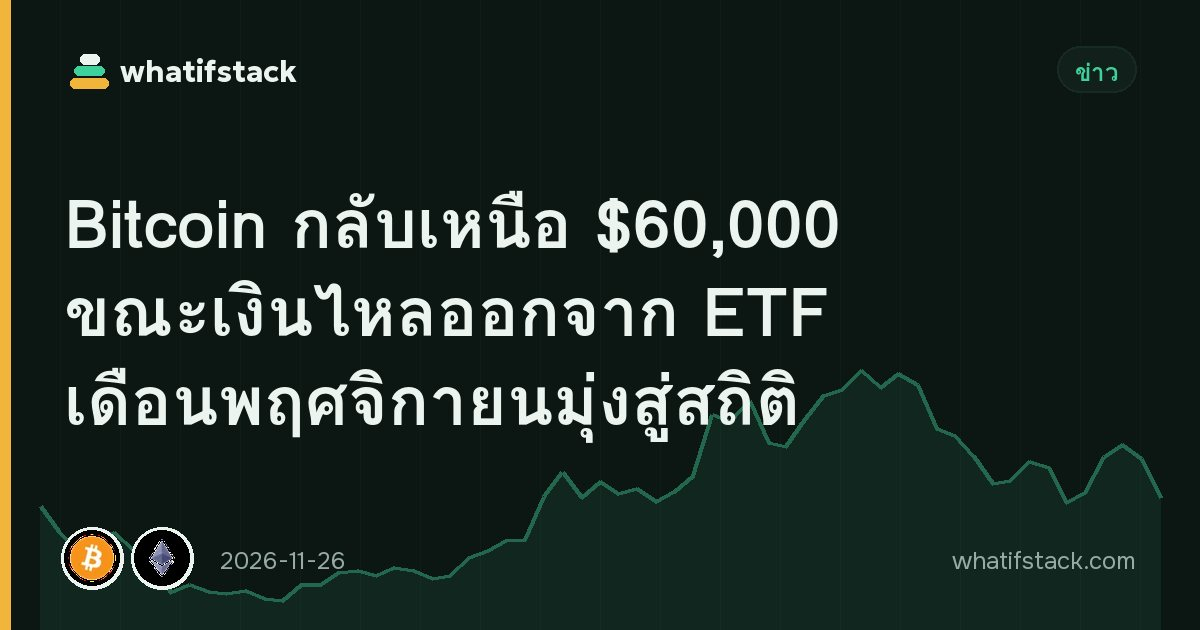
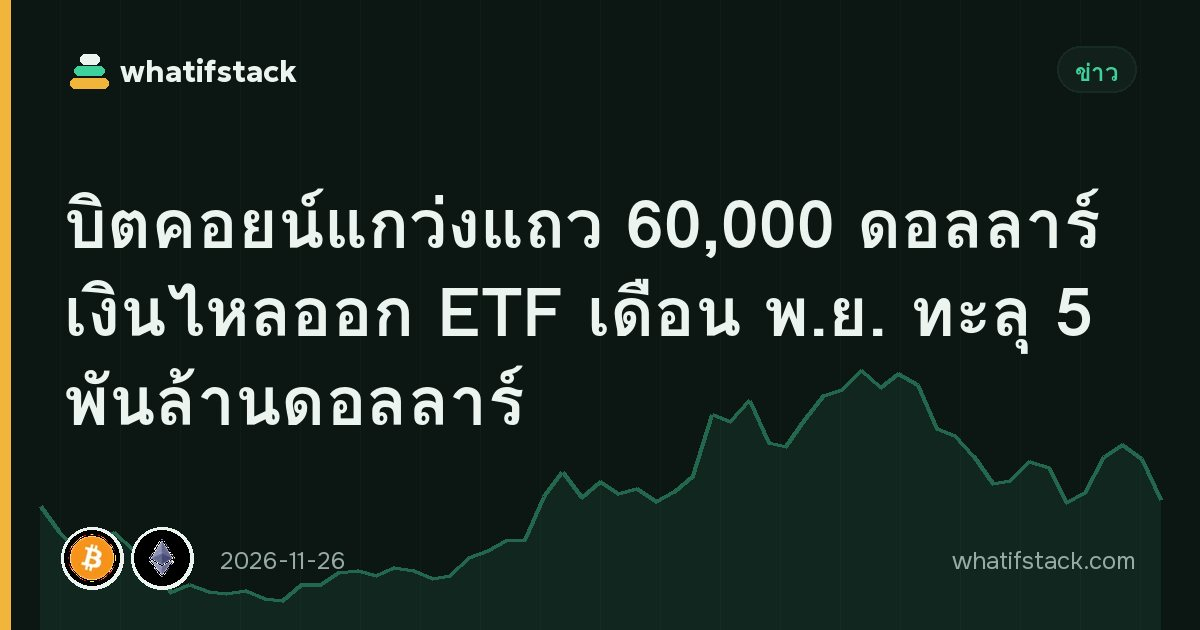
News update: bitcoin-back-above-60000-etf-outflows-november-record
Claude-Session: https://claude.ai/code/session_01Nmn9VRKyYFWQJN1iZMEbvH

Changed region(s): [[0.0617, 0.4222, 0.925, 0.573], [0.0308, 0.3016, 0.925, 0.4222], [0.0308, 0.573, 0.6783, 0.7238]]

diff --git a/content/news/th/bitcoin-back-above-60000-etf-outflows-november-record.md b/content/news/th/bitcoin-back-above-60000-etf-outflows-november-record.md
@@ -1,11 +1,13 @@
 ---
-title: Bitcoin กลับเหนือ $60,000 ขณะเงินไหลออกจาก ETF เดือนพฤศจิกายนมุ่งสู่สถิติ
-description: Bitcoin ขึ้นราว 3% ใกล้ $60,850 เมื่อ 26 พ.ย. หลังหลุด $58,000 ขณะที่ ETF bitcoin spot ในสหรัฐฯ ยังมีเงินไหลออกต่อเนื่องในเดือนที่ทำสถิติ
+title: บิตคอยน์แกว่งแถว 60,000 ดอลลาร์ เงินไหลออก ETF เดือน พ.ย. ทะลุ 5 พันล้านดอลลาร์
+description: บิตคอยน์หลุด 60,000 ดอลลาร์อีกครั้งเมื่อ 28 พ.ย. หลังขึ้นไปแตะ 62,100 ดอลลาร์ ออปชัน 7 พันล้านดอลลาร์หมดอายุ และเงินไหลออก ETF เดือน พ.ย. ทะลุ 5 พันล้านดอลลาร์
 date: 2026-11-26 06:50
-updated: 2026-11-27 13:05
+updated: 2026-11-28 06:30
 tags: bitcoin, etf
 assets: btc, eth
 ---
+**อัปเดต 28 พฤศจิกายน 06:30 UTC:** บิตคอยน์หลุด 60,000 ดอลลาร์อีกครั้งในเช้ามืดวันเสาร์ และซื้อขายราว 59,700 ดอลลาร์เมื่อเวลา 06:07 UTC ลดลงราว 3% ใน 24 ชั่วโมง หลังแกว่งตัวจากจุดสูงสุดวันศุกร์ราว 62,100 ดอลลาร์ลงไปต่ำสุดราว 58,700 ดอลลาร์ (Investing.com) เมื่อวันศุกร์ ออปชันบิตคอยน์มูลค่าราว 7 พันล้านดอลลาร์หมดอายุบน Deribit และสถานะคริปโตแบบเลเวอเรจราว 478 ล้านดอลลาร์ถูกล้างพอร์ต อีเธอร์ลดลงราว 4.5% มาอยู่ราว 1,657 ดอลลาร์ ส่วนโทเคน WLFI ที่เชื่อมโยงกับทรัมป์ดิ่งราว 40% หลังกระเป๋าสำรองขาย ETH ขาดทุน ([ข่าวของเรา]({lang}/news/why-is-wlfi-crashing-november-2026/)) เงินไหลออกจาก ETF บิตคอยน์สปอตของสหรัฐฯ ในเดือนพฤศจิกายนทะลุ 5 พันล้านดอลลาร์ ในอีกด้าน ข้อมูล CryptoQuant ชี้ว่ากระเป๋าที่ถือ 1,000–10,000 BTC ซื้อเพิ่มราว 121,000 BTC ระหว่าง 30 ก.ย.–21 พ.ย. ขณะที่ราคาลดลงเกือบ 30%
+
 **อัปเดต 27 พฤศจิกายน 13:05 UTC:** Bitcoin ยังขึ้นต่อและซื้อขายใกล้ $61,700 ในวันศุกร์ สูงกว่าจุดต่ำสุดในรอบสองปีเมื่อวันพุธที่ราว $57,300 ประมาณ 8% และเป็นระดับสูงสุดนับตั้งแต่วันจันทร์ โดยกำลังจะปิดสัปดาห์เป็นบวกครั้งแรกในรอบแปดสัปดาห์ (Analytics Insight, Coinspeaker) ทั้งเดือนพฤศจิกายนราคายังลดลงราว 20% จากประมาณ $77,600 เมื่อ 1 พฤศจิกายน ส่วน Ether เพิ่มขึ้นราว 2.3% ใกล้ $1,734 การดีดตัวครั้งนี้เกิดขึ้นพร้อมกับการฟื้นตัวในวงกว้างของหุ้น AI และชิป ท่ามกลางการซื้อขายช่วงวันหยุดที่บางเบา นอกจากนี้ Binance ระบุเมื่อวันพฤหัสบดีว่าได้ยกเลิกข้อจำกัดการถอนที่ใช้หลังเหตุแฮ็ก $6.3 พันล้านเมื่อเดือนที่แล้วทั้งหมดแล้ว เงินเฟ้อสหรัฐฯ ที่ยังสูงต่อเนื่องและโอกาสที่ Fed จะขึ้นดอกเบี้ยในการประชุม 8–9 ธันวาคมยังเป็นแรงกดดันหลัก และเทรดเดอร์จับตาแนวต้านใกล้ $64,600
 
 Bitcoin กลับขึ้นเหนือ $60,000 ในเช้าวันพฤหัสบดีที่ 26 พฤศจิกายน โดยเพิ่มขึ้นราว 3% ใน 24 ชั่วโมง มาอยู่ใกล้ $60,850 เมื่อเวลา 05:40 UTC หนึ่งวันหลังจากที่ร่วงลงต่ำกว่า $58,000 ชั่วครู่ การฟื้นตัวเกิดขึ้นขณะที่วอลล์สตรีทเรียกคืนการขาดทุนช่วงเช้าวันพุธของหุ้นเทคโนโลยีได้เกือบทั้งหมด แต่เงินยังคงไหลออกจาก ETF bitcoin spot ในสหรัฐฯ
@@ -23,6 +25,7 @@ Bitcoin กลับขึ้นเหนือ $60,000 ในเช้าวั
 
 ## แหล่งที่มา
 
+- [Investing.com — Bitcoin price today falls below $60k as whales buy dip, ETF outflows mount](https://www.investing.com/news/cryptocurrency-news/bitcoin-price-today-falls-below-60k-as-whales-buy-dip-etf-outflows-mount-5054180)
 - [Analytics Insight — Bitcoin ฟื้นเหนือ USD 61,400 มุ่งสู่สัปดาห์บวกครั้งแรกในรอบแปดสัปดาห์](https://www.analyticsinsight.net/news/bitcoin-recovers-above-usd-61400-eyes-first-weekly-gain-in-eight-weeks-as-crypto-markets-rebound)
 - [Coinspeaker via Yahoo Finance — ข่าว bitcoin วันนี้: BTC ดีดตัว 8%](https://finance.yahoo.com/markets/crypto/articles/bitcoin-news-today-btc-rebounds-104410814.html)
 - [crypto.news — ราคา bitcoin กลับมาที่ $60K แต่ถึงจุดต่ำสุดจริงหรือยัง?](https://crypto.news/bitcoin-price-prediction-btc-recovery-etf-outflows/)

diff --git a/content/news/hi/bitcoin-back-above-60000-etf-outflows-november-record.md b/content/news/hi/bitcoin-back-above-60000-etf-outflows-november-record.md
@@ -1,11 +1,13 @@
 ---
-title: Bitcoin फिर $60,000 के ऊपर, नवंबर में ETF से निकासी रिकॉर्ड की ओर
-description: 26 नवंबर को $58,000 से नीचे फिसलने के बाद Bitcoin करीब 3% चढ़कर लगभग $60,850 पर पहुंचा, जबकि अमेरिकी स्पॉट bitcoin ETF से रिकॉर्ड महीने की निकासी जारी रही।
+title: बिटकॉइन 60,000 डॉलर के आसपास झूल रहा, नवंबर में ETF से निकासी 5 अरब डॉलर पार
+description: 28 नवंबर को बिटकॉइन 62,100 डॉलर छूने के बाद फिर 60,000 डॉलर से नीचे आया; 7 अरब डॉलर के ऑप्शन एक्सपायर हुए और नवंबर में ETF निकासी 5 अरब डॉलर पार गई।
 date: 2026-11-26 06:50
-updated: 2026-11-27 13:05
+updated: 2026-11-28 06:30
 tags: bitcoin, etf
 assets: btc, eth
 ---
+**अपडेट 28 नवंबर, 06:30 UTC:** शनिवार सुबह बिटकॉइन फिर 60,000 डॉलर से नीचे फिसल गया और 06:07 UTC पर करीब 59,700 डॉलर पर था, 24 घंटे में लगभग 3% नीचे; शुक्रवार को यह करीब 62,100 डॉलर के ऊपरी स्तर से करीब 58,700 डॉलर के निचले स्तर तक झूला (Investing.com)। शुक्रवार को Deribit पर करीब 7 अरब डॉलर के बिटकॉइन ऑप्शन एक्सपायर हुए और क्रिप्टो बाज़ार में करीब 47.8 करोड़ डॉलर की लीवरेज पोज़िशन लिक्विडेट हुईं। ईथर करीब 4.5% गिरकर लगभग 1,657 डॉलर पर आया, और ट्रंप से जुड़ा WLFI टोकन एक रिज़र्व वॉलेट के घाटे में ETH बेचने के बाद करीब 40% टूट गया ([हमारी खबर]({lang}/news/why-is-wlfi-crashing-november-2026/))। नवंबर में अमेरिकी स्पॉट बिटकॉइन ETF से निकासी 5 अरब डॉलर पार कर गई। दूसरी ओर, CryptoQuant के आंकड़ों के मुताबिक 1,000–10,000 BTC वाले वॉलेट्स ने 30 सितंबर से 21 नवंबर के बीच करीब 1,21,000 BTC खरीदे, जबकि भाव लगभग 30% गिरा।
+
 **अपडेट 27 नवंबर, 13:05 UTC:** Bitcoin की तेजी जारी रही और शुक्रवार को यह करीब $61,700 पर ट्रेड हुआ, जो बुधवार के लगभग $57,300 के दो साल के निचले स्तर से करीब 8% ऊपर और सोमवार के बाद का सबसे ऊंचा स्तर है; यह आठ हफ्तों में अपनी पहली साप्ताहिक बढ़त की ओर है (Analytics Insight, Coinspeaker)। नवंबर में यह अब भी करीब 20% नीचे है, 1 नवंबर के लगभग $77,600 से। Ether करीब 2.3% बढ़कर लगभग $1,734 पर पहुंचा। यह उछाल AI और चिप शेयरों में व्यापक राहत रैली और छुट्टियों के कम कारोबार के साथ आया; Binance ने गुरुवार को यह भी कहा कि पिछले महीने के $6.3 अरब के हैक के बाद लगाई गई निकासी सीमाएं पूरी तरह हटा दी गई हैं। अमेरिका में लगातार ऊंची महंगाई और 8–9 दिसंबर की बैठक में Fed की संभावित ब्याज दर बढ़ोतरी अब भी मुख्य बाधाएं हैं, और ट्रेडर्स करीब $64,600 के रेजिस्टेंस पर नजर रख रहे हैं।
 
 गुरुवार, 26 नवंबर की सुबह Bitcoin फिर $60,000 के ऊपर लौट आया। 05:40 UTC पर यह 24 घंटे में करीब 3% बढ़कर लगभग $60,850 पर था, जबकि एक दिन पहले यह कुछ समय के लिए $58,000 से नीचे चला गया था। यह उछाल तब आया जब वॉल स्ट्रीट ने बुधवार सुबह टेक शेयरों में हुई ज्यादातर गिरावट की भरपाई कर ली, लेकिन अमेरिकी स्पॉट bitcoin ETF से पैसा निकलता रहा।
@@ -23,6 +25,7 @@ crypto.news के हवाले से विश्लेषक $61,500–62,
 
 ## स्रोत
 
+- [Investing.com — Bitcoin price today falls below $60k as whales buy dip, ETF outflows mount](https://www.investing.com/news/cryptocurrency-news/bitcoin-price-today-falls-below-60k-as-whales-buy-dip-etf-outflows-mount-5054180)
 - [Analytics Insight — Bitcoin USD 61,400 के ऊपर लौटा, आठ हफ्तों में पहली साप्ताहिक बढ़त की ओर](https://www.analyticsinsight.net/news/bitcoin-recovers-above-usd-61400-eyes-first-weekly-gain-in-eight-weeks-as-crypto-markets-rebound)
 - [Coinspeaker via Yahoo Finance — आज की bitcoin खबर: BTC 8% उछला](https://finance.yahoo.com/markets/crypto/articles/bitcoin-news-today-btc-rebounds-104410814.html)
 - [crypto.news — Bitcoin की कीमत फिर $60K पर, लेकिन क्या सच में तल बन गया है?](https://crypto.news/bitcoin-price-prediction-btc-recovery-etf-outflows/)

diff --git a/content/news/ar/bitcoin-back-above-60000-etf-outflows-november-record.md b/content/news/ar/bitcoin-back-above-60000-etf-outflows-november-record.md
@@ -1,11 +1,13 @@
 ---
-title: Bitcoin يعود فوق 60 ألف دولار مع توجه تدفقات الخروج من صناديق ETF لرقم قياسي في نوفمبر
-description: ارتفع Bitcoin نحو 3% إلى قرابة 60,850 دولارًا في 26 نوفمبر بعد هبوطه دون 58 ألفًا، فيما واصلت صناديق bitcoin الأمريكية الفورية شهرًا قياسيًا من التدفقات.
+title: Bitcoin يتأرجح حول 60 ألف دولار وتدفقات الخروج من صناديق ETF في نوفمبر تتجاوز 5 مليارات
+description: عاد Bitcoin دون 60 ألف دولار في 28 نوفمبر بعد بلوغه 62,100 دولار، مع انتهاء خيارات بقيمة 7 مليارات وتجاوز تدفقات الخروج من صناديق ETF في نوفمبر 5 مليارات دولار.
 date: 2026-11-26 06:50
-updated: 2026-11-27 13:05
+updated: 2026-11-28 06:30
 tags: bitcoin, etf
 assets: btc, eth
 ---
+**تحديث 28 نوفمبر، 06:30 UTC:** عاد Bitcoin دون 60 ألف دولار فجر السبت وتداول قرب 59,700 دولار عند 06:07 UTC، منخفضًا نحو 3% خلال 24 ساعة، بعد تأرجحه بين قمة الجمعة قرب 62,100 دولار وقاع قرب 58,700 دولار (Investing.com). وانتهت يوم الجمعة على Deribit خيارات بيتكوين بقيمة تقارب 7 مليارات دولار، وجرت تصفية مراكز مشفرة بالرافعة بنحو 478 مليون دولار. وتراجع الإيثر نحو 4.5% إلى قرابة 1,657 دولارًا، فيما انهار رمز WLFI المرتبط بترامب بنحو 40% بعد بيع محفظة احتياطية ETH بخسارة ([خبرنا]({lang}/news/why-is-wlfi-crashing-november-2026/)). وتجاوزت التدفقات الخارجة من صناديق البيتكوين الفورية الأمريكية في نوفمبر 5 مليارات دولار. في المقابل، تُظهر بيانات CryptoQuant أن المحافظ التي تحمل 1,000–10,000 BTC اشترت نحو 121 ألف BTC بين 30 سبتمبر و21 نوفمبر بينما هبط السعر قرابة 30%.
+
 **تحديث 27 نوفمبر، 13:05 UTC:** واصل Bitcoin ارتفاعه وجرى تداوله قرب 61,700 دولار يوم الجمعة، أي أعلى بنحو 8% من أدنى مستوى في عامين سجّله يوم الأربعاء قرب 57,300 دولار، وهو أعلى مستوى له منذ يوم الاثنين؛ ويتجه لتحقيق أول مكسب أسبوعي منذ ثمانية أسابيع (Analytics Insight وCoinspeaker). لكنه لا يزال منخفضًا بنحو 20% في نوفمبر، من قرابة 77,600 دولار في 1 نوفمبر. وارتفع ether بنحو 2.3% إلى قرابة 1,734 دولارًا. وجاء الارتداد مع موجة انتعاش أوسع في أسهم الذكاء الاصطناعي والرقائق وتداولات عطلة هادئة؛ كما أعلنت Binance يوم الخميس أنها رفعت بالكامل قيود السحب التي فرضتها بعد اختراق بقيمة 6.3 مليار دولار الشهر الماضي. ويظل التضخم الأمريكي المستمر واحتمال رفع الفيدرالي للفائدة في اجتماع 8–9 ديسمبر أبرز العوائق، فيما يراقب المتداولون مستوى المقاومة قرب 64,600 دولار.
 
 عاد Bitcoin فوق مستوى 60 ألف دولار في وقت مبكر من يوم الخميس 26 نوفمبر، مرتفعًا نحو 3% خلال 24 ساعة إلى قرابة 60,850 دولارًا عند الساعة 05:40 بتوقيت UTC، بعد يوم من هبوطه لفترة وجيزة دون 58 ألف دولار. وجاء الارتداد مع تعويض وول ستريت معظم خسائر أسهم التكنولوجيا في بداية تعاملات الأربعاء، لكن الأموال واصلت الخروج من صناديق bitcoin الفورية المتداولة في الولايات المتحدة.
@@ -23,6 +25,7 @@ assets: btc, eth
 
 ## المصادر
 
+- [Investing.com — Bitcoin price today falls below $60k as whales buy dip, ETF outflows mount](https://www.investing.com/news/cryptocurrency-news/bitcoin-price-today-falls-below-60k-as-whales-buy-dip-etf-outflows-mount-5054180)
 - [Analytics Insight — Bitcoin يتعافى فوق 61,400 دولار ويتجه لأول مكسب أسبوعي منذ ثمانية أسابيع](https://www.analyticsinsight.net/news/bitcoin-recovers-above-usd-61400-eyes-first-weekly-gain-in-eight-weeks-as-crypto-markets-rebound)
 - [Coinspeaker via Yahoo Finance — أخبار bitcoin اليوم: BTC يرتد 8%](https://finance.yahoo.com/markets/crypto/articles/bitcoin-news-today-btc-rebounds-104410814.html)
 - [crypto.news — سعر bitcoin يستعيد 60 ألف دولار، لكن هل بلغ القاع حقًا؟](https://crypto.news/bitcoin-price-prediction-btc-recovery-etf-outflows/)

diff --git a/content/news/uk/bitcoin-back-above-60000-etf-outflows-november-record.md b/content/news/uk/bitcoin-back-above-60000-etf-outflows-november-record.md
@@ -1,11 +1,13 @@
 ---
-title: Біткоїн повернувся вище $60 000, а відтік з ETF у листопаді йде на рекорд
-description: 26 листопада біткоїн зріс приблизно на 3% до ~$60 850 після падіння нижче $58 000, а спотові біткоїн-ETF у США продовжили рекордний місяць відтоків.
+title: Біткоїн коливається біля $60 000, а відтік з ETF у листопаді перевищив $5 млрд
+description: 28 листопада біткоїн знову опустився нижче $60 000 після злету до $62 100: пройшла експірація опціонів на $7 млрд, а відтік з ETF за листопад перевищив $5 млрд.
 date: 2026-11-26 06:50
-updated: 2026-11-27 13:05
+updated: 2026-11-28 06:30
 tags: bitcoin, etf
 assets: btc, eth
 ---
+**Оновлення 28 листопада, 06:30 UTC:** у суботу зранку біткоїн знову опустився нижче $60 000 і о 06:07 UTC торгувався біля $59 700 — приблизно −3% за добу — після коливань від п'ятничного максимуму ~$62 100 до мінімуму ~$58 700 (Investing.com). У п'ятницю на Deribit експірувалися біткоїн-опціони приблизно на $7 млрд, ліквідації кредитних позицій на крипторинку сягнули ~$478 млн. Ефір подешевшав ~на 4,5% до ~$1 657, а пов'язаний із Трампом токен WLFI обвалився ~на 40% після продажу ETH із резервного гаманця ([наша новина]({lang}/news/why-is-wlfi-crashing-november-2026/)). Відтік зі спотових біткоїн-ETF у США за листопад перевищив $5 млрд. Водночас, за даними CryptoQuant, гаманці з 1 000–10 000 BTC з 30 вересня по 21 листопада докупили ~121 000 BTC, поки ціна падала майже на 30%.
+
 **Оновлення 27 листопада, 13:05 UTC:** біткоїн продовжив зростання й у п'ятницю торгувався біля $61 700 — приблизно на 8% вище за середовий дворічний мінімум близько $57 300 і найвище з понеділка; він іде до першого тижневого зростання за вісім тижнів (Analytics Insight, Coinspeaker). За листопад біткоїн усе ще втратив близько 20% — з приблизно $77 600 на 1 листопада. Ether додав близько 2,3%, до ~$1 734. Відскок збігся з ширшим відновленням акцій ШІ та чипмейкерів і тонкою святковою торгівлею; крім того, у четвер Binance повідомила, що повністю зняла ліміти на виведення, запроваджені після злому на $6,3 млрд минулого місяця. Головними ризиками залишаються стійка інфляція в США та ймовірне підвищення ставки ФРС на засіданні 8–9 грудня, а трейдери стежать за опором біля $64 600.
 
 У четвер, 26 листопада, біткоїн знову піднявся вище $60 000: за 24 години він подорожчав приблизно на 3% і о 05:40 UTC торгувався біля $60 850 — через день після того, як ненадовго опускався нижче $58 000. Відскок збігся з тим, що Волл-стріт відіграла більшу частину ранніх втрат техакцій у середу, але гроші й далі виходили зі спотових біткоїн-ETF у США.
@@ -23,6 +25,7 @@ assets: btc, eth
 
 ## Джерела
 
+- [Investing.com — Bitcoin price today falls below $60k as whales buy dip, ETF outflows mount](https://www.investing.com/news/cryptocurrency-news/bitcoin-price-today-falls-below-60k-as-whales-buy-dip-etf-outflows-mount-5054180)
 - [Analytics Insight — Bitcoin recovers above USD 61,400, eyes first weekly gain in eight weeks](https://www.analyticsinsight.net/news/bitcoin-recovers-above-usd-61400-eyes-first-weekly-gain-in-eight-weeks-as-crypto-markets-rebound)
 - [Coinspeaker via Yahoo Finance — Bitcoin news today: BTC rebounds 8%](https://finance.yahoo.com/markets/crypto/articles/bitcoin-news-today-btc-rebounds-104410814.html)
 - [crypto.news — ціна біткоїна повернулася вище $60 тис., але чи справді дно пройдене?](https://crypto.news/bitcoin-price-prediction-btc-recovery-etf-outflows/)

diff --git a/content/news/ru/bitcoin-back-above-60000-etf-outflows-november-record.md b/content/news/ru/bitcoin-back-above-60000-etf-outflows-november-record.md
@@ -1,11 +1,13 @@
 ---
-title: Биткоин вернулся выше $60 000, а отток из ETF в ноябре идёт на рекорд
-description: 26 ноября биткоин вырос примерно на 3% до ~$60 850 после падения ниже $58 000, а спотовые биткоин-ETF в США продолжили рекордный месяц оттоков.
+title: Биткоин колеблется у $60 000, а отток из ETF в ноябре превысил $5 млрд
+description: 28 ноября биткоин снова опустился ниже $60 000 после взлёта до $62 100: прошла экспирация опционов на $7 млрд, а отток из ETF за ноябрь превысил $5 млрд.
 date: 2026-11-26 06:50
-updated: 2026-11-27 13:05
+updated: 2026-11-28 06:30
 tags: bitcoin, etf
 assets: btc, eth
 ---
+**Обновление 28 ноября, 06:30 UTC:** в субботу утром биткоин снова опустился ниже $60 000 и в 06:07 UTC торговался около $59 700 — примерно −3% за сутки — после колебаний от пятничного максимума ~$62 100 до минимума ~$58 700 (Investing.com). В пятницу на Deribit экспирировались биткоин-опционы примерно на $7 млрд, ликвидации кредитных позиций на криптовалютном рынке достигли ~$478 млн. Эфир подешевел ~на 4,5% до ~$1 657, а связанный с Трампом токен WLFI рухнул ~на 40% после продажи ETH из резервного кошелька ([наша новость]({lang}/news/why-is-wlfi-crashing-november-2026/)). Отток из спотовых биткоин-ETF в США за ноябрь превысил $5 млрд. При этом, по данным CryptoQuant, кошельки с 1 000–10 000 BTC с 30 сентября по 21 ноября докупили ~121 000 BTC, пока цена падала почти на 30%.
+
 **Обновление 27 ноября, 13:05 UTC:** биткоин продолжил рост и в пятницу торговался около $61 700 — примерно на 8% выше среднего двухлетнего минимума около $57 300 и максимально с понедельника; он идет к первому недельному росту за восемь недель (Analytics Insight, Coinspeaker). За ноябрь биткоин всё еще потерял около 20% — с примерно $77 600 на 1 ноября. Ether прибавил около 2,3%, до ~$1 734. Отскок совпал с более широким восстановлением акций ИИ и производителей чипов и тонкой праздничной торговлей; кроме того, в четверг Binance сообщила, что полностью сняла лимиты на вывод, введенные после взлома на $6,3 млрд в прошлом месяце. Главными рисками остаются устойчивая инфляция в США и вероятное повышение ставки ФРС на заседании 8–9 декабря, а трейдеры следят за сопротивлением около $64 600.
 
 В четверг, 26 ноября, биткоин снова поднялся выше $60 000: за 24 часа он подорожал примерно на 3% и в 05:40 UTC торговался около $60 850 — через день после того, как ненадолго опускался ниже $58 000. Отскок совпал с тем, что Уолл-стрит отыграла большую часть утренних потерь техакций в среду, но деньги продолжали уходить из спотовых биткоин-ETF в США.
@@ -23,6 +25,7 @@ assets: btc, eth
 
 ## Источники
 
+- [Investing.com — Bitcoin price today falls below $60k as whales buy dip, ETF outflows mount](https://www.investing.com/news/cryptocurrency-news/bitcoin-price-today-falls-below-60k-as-whales-buy-dip-etf-outflows-mount-5054180)
 - [Analytics Insight — Bitcoin recovers above USD 61,400, eyes first weekly gain in eight weeks](https://www.analyticsinsight.net/news/bitcoin-recovers-above-usd-61400-eyes-first-weekly-gain-in-eight-weeks-as-crypto-markets-rebound)
 - [Coinspeaker via Yahoo Finance — Bitcoin news today: BTC rebounds 8%](https://finance.yahoo.com/markets/crypto/articles/bitcoin-news-today-btc-rebounds-104410814.html)
 - [crypto.news — цена биткоина вернулась выше $60 тыс., но действительно ли дно пройдено?](https://crypto.news/bitcoin-price-prediction-btc-recovery-etf-outflows/)

diff --git a/content/news/vi/bitcoin-back-above-60000-etf-outflows-november-record.md b/content/news/vi/bitcoin-back-above-60000-etf-outflows-november-record.md
@@ -1,11 +1,13 @@
 ---
-title: Bitcoin trở lại trên 60.000 USD khi dòng tiền rút khỏi ETF tháng 11 hướng tới kỷ lục
-description: Bitcoin tăng khoảng 3% lên gần 60.850 USD ngày 26/11 sau khi rơi dưới 58.000 USD, trong khi các ETF bitcoin giao ngay tại Mỹ kéo dài tháng rút vốn kỷ lục.
+title: Bitcoin dao động quanh 60.000 USD, dòng tiền rút khỏi ETF tháng 11 vượt 5 tỷ USD
+description: Bitcoin lại xuống dưới 60.000 USD ngày 28/11 sau khi chạm 62.100 USD; 7 tỷ USD quyền chọn đáo hạn và dòng tiền rút khỏi ETF trong tháng 11 vượt 5 tỷ USD.
 date: 2026-11-26 06:50
-updated: 2026-11-27 13:05
+updated: 2026-11-28 06:30
 tags: bitcoin, etf
 assets: btc, eth
 ---
+**Cập nhật 28/11, 06:30 UTC:** bitcoin lại rơi xuống dưới 60.000 USD vào rạng sáng thứ Bảy, giao dịch quanh 59.700 USD lúc 06:07 UTC, giảm khoảng 3% trong 24 giờ, sau khi dao động từ đỉnh thứ Sáu khoảng 62.100 USD xuống đáy khoảng 58.700 USD (Investing.com). Hôm thứ Sáu, khoảng 7 tỷ USD quyền chọn bitcoin đáo hạn trên Deribit và khoảng 478 triệu USD vị thế crypto đòn bẩy bị thanh lý. Ether giảm khoảng 4,5% về gần 1.657 USD, còn token WLFI liên quan đến Trump lao dốc khoảng 40% sau khi một ví dự trữ bán lỗ ETH ([bài của chúng tôi]({lang}/news/why-is-wlfi-crashing-november-2026/)). Dòng tiền rút khỏi các ETF bitcoin giao ngay của Mỹ trong tháng 11 đã vượt 5 tỷ USD. Ngược lại, dữ liệu CryptoQuant cho thấy các ví nắm 1.000–10.000 BTC đã mua khoảng 121.000 BTC từ 30/9 đến 21/11, trong khi giá giảm gần 30%.
+
 **Cập nhật 27/11, 13:05 UTC:** Bitcoin tiếp tục tăng và giao dịch quanh 61.700 USD vào thứ Sáu, cao hơn khoảng 8% so với đáy hai năm gần 57.300 USD hôm thứ Tư và là mức cao nhất kể từ thứ Hai; đồng tiền này đang hướng tới tuần tăng đầu tiên sau tám tuần (Analytics Insight, Coinspeaker). Tính cả tháng 11, giá vẫn giảm khoảng 20%, từ mức khoảng 77.600 USD ngày 1/11. Ether tăng khoảng 2,3% lên gần 1.734 USD. Đà hồi phục diễn ra cùng đợt phục hồi rộng hơn của cổ phiếu AI và chip trong phiên nghỉ lễ thanh khoản mỏng; Binance cũng cho biết hôm thứ Năm đã gỡ bỏ hoàn toàn giới hạn rút tiền áp dụng sau vụ hack 6,3 tỷ USD hồi tháng trước. Lạm phát Mỹ dai dẳng và khả năng Fed tăng lãi suất tại cuộc họp ngày 8–9/12 vẫn là trở ngại chính, còn giới giao dịch theo dõi vùng kháng cự gần 64.600 USD.
 
 Bitcoin đã trở lại trên 60.000 USD vào sáng thứ Năm, 26/11, tăng khoảng 3% trong 24 giờ lên gần 60.850 USD lúc 05:40 UTC, một ngày sau khi có lúc giảm xuống dưới 58.000 USD. Đà hồi phục diễn ra khi Phố Wall lấy lại phần lớn mức giảm đầu phiên thứ Tư của nhóm công nghệ, nhưng tiền vẫn tiếp tục rời khỏi các ETF bitcoin giao ngay tại Mỹ.
@@ -23,6 +25,7 @@ Các nhà phân tích được crypto.news trích dẫn thấy vùng kháng cự
 
 ## Nguồn
 
+- [Investing.com — Bitcoin price today falls below $60k as whales buy dip, ETF outflows mount](https://www.investing.com/news/cryptocurrency-news/bitcoin-price-today-falls-below-60k-as-whales-buy-dip-etf-outflows-mount-5054180)
 - [Analytics Insight — Bitcoin hồi phục trên 61.400 USD, hướng tới tuần tăng đầu tiên sau tám tuần](https://www.analyticsinsight.net/news/bitcoin-recovers-above-usd-61400-eyes-first-weekly-gain-in-eight-weeks-as-crypto-markets-rebound)
 - [Coinspeaker via Yahoo Finance — Tin bitcoin hôm nay: BTC bật tăng 8%](https://finance.yahoo.com/markets/crypto/articles/bitcoin-news-today-btc-rebounds-104410814.html)
 - [crypto.news — Giá bitcoin lấy lại mốc 60.000 USD, nhưng đáy đã thực sự hình thành?](https://crypto.news/bitcoin-price-prediction-btc-recovery-etf-outflows/)

diff --git a/content/news/tr/bitcoin-back-above-60000-etf-outflows-november-record.md b/content/news/tr/bitcoin-back-above-60000-etf-outflows-november-record.md
@@ -1,11 +1,13 @@
 ---
-title: Bitcoin yeniden 60.000 doların üzerinde, ETF'lerden kasım çıkışı rekora gidiyor
-description: Bitcoin 26 Kasım'da 58.000 doların altına indikten sonra yaklaşık %3 yükselerek 60.850 dolara çıktı; ABD spot bitcoin ETF'leri rekor çıkış ayını sürdürdü.
+title: Bitcoin 60.000 dolar civarında dalgalanıyor, kasımda ETF çıkışları 5 milyar doları aştı
+description: Bitcoin 28 Kasım'da 62.100 dolara çıktıktan sonra yeniden 60.000 doların altına indi; 7 milyar dolarlık opsiyon vadesi doldu, kasımda ETF çıkışı 5 milyar doları geçti.
 date: 2026-11-26 06:50
-updated: 2026-11-27 13:05
+updated: 2026-11-28 06:30
 tags: bitcoin, etf
 assets: btc, eth
 ---
+**Güncelleme 28 Kasım, 06:30 UTC:** Bitcoin cumartesi sabahı yeniden 60.000 doların altına indi ve 06:07 UTC'de 24 saatte yaklaşık %3 düşüşle 59.700 dolar civarında işlem gördü; cuma günü ~62.100 dolarlık zirve ile ~58.700 dolarlık dip arasında dalgalanmıştı (Investing.com). Cuma günü Deribit'te yaklaşık 7 milyar dolarlık bitcoin opsiyonunun vadesi doldu ve kripto piyasasında ~478 milyon dolarlık kaldıraçlı pozisyon tasfiye edildi. Ether ~%4,5 düşüşle ~1.657 dolara geriledi; Trump bağlantılı WLFI token'ı ise bir rezerv cüzdanının zararına ETH satmasının ardından ~%40 çakıldı ([haberimiz]({lang}/news/why-is-wlfi-crashing-november-2026/)). ABD spot bitcoin ETF'lerinden kasımdaki çıkış 5 milyar doları aştı. Öte yandan CryptoQuant verilerine göre 1.000–10.000 BTC tutan cüzdanlar, fiyat yaklaşık %30 düşerken 30 Eylül–21 Kasım arasında ~121.000 BTC aldı.
+
 **Güncelleme 27 Kasım, 13:05 UTC:** Bitcoin yükselişini sürdürdü ve cuma günü 61.700 dolar civarında işlem gördü; bu, çarşamba günkü yaklaşık 57.300 dolarlık iki yılın en düşük seviyesinin yaklaşık %8 üzerinde ve pazartesiden bu yana en yüksek seviye. Bitcoin sekiz hafta sonra ilk haftalık kazancına doğru ilerliyor (Analytics Insight, Coinspeaker). Yine de 1 Kasım'daki yaklaşık 77.600 dolara göre kasımda hâlâ %20 civarında düşüşte. Ether yaklaşık %2,3 artışla 1.734 dolar civarına çıktı. Toparlanma, yapay zekâ ve çip hisselerindeki daha geniş bir rahatlama yükselişi ve tatil döneminin sığ işlemleriyle aynı zamana denk geldi; Binance de perşembe günü geçen ayki 6,3 milyar dolarlık hack sonrasında getirdiği çekim limitlerini tamamen kaldırdığını açıkladı. ABD'de inatçı enflasyon ve Fed'in 8–9 Aralık toplantısında olası faiz artırımı başlıca baskı unsurları olmaya devam ediyor; yatırımcılar 64.600 dolar civarındaki direnci izliyor.
 
 Bitcoin 26 Kasım Perşembe sabahı yeniden 60.000 doların üzerine çıktı: 24 saatte yaklaşık %3 yükselerek 05:40 UTC'de 60.850 dolar civarına ulaştı. Bir gün önce kısa süreliğine 58.000 doların altına inmişti. Toparlanma, Wall Street'in çarşamba günkü erken teknoloji kayıplarının büyük kısmını geri almasıyla geldi; ancak ABD'deki spot bitcoin ETF'lerinden para çıkışı sürdü.
@@ -23,6 +25,7 @@ crypto.news'in aktardığı analistler 61.500–62.000 dolar civarında direnç,
 
 ## Kaynaklar
 
+- [Investing.com — Bitcoin price today falls below $60k as whales buy dip, ETF outflows mount](https://www.investing.com/news/cryptocurrency-news/bitcoin-price-today-falls-below-60k-as-whales-buy-dip-etf-outflows-mount-5054180)
 - [Analytics Insight — Bitcoin recovers above USD 61,400, eyes first weekly gain in eight weeks](https://www.analyticsinsight.net/news/bitcoin-recovers-above-usd-61400-eyes-first-weekly-gain-in-eight-weeks-as-crypto-markets-rebound)
 - [Coinspeaker via Yahoo Finance — Bitcoin news today: BTC rebounds 8%](https://finance.yahoo.com/markets/crypto/articles/bitcoin-news-today-btc-rebounds-104410814.html)
 - [crypto.news — Bitcoin fiyatı 60 bin doları geri aldı, ama dip gerçekten görüldü mü?](https://crypto.news/bitcoin-price-prediction-btc-recovery-etf-outflows/)

diff --git a/content/news/fr/bitcoin-back-above-60000-etf-outflows-november-record.md b/content/news/fr/bitcoin-back-above-60000-etf-outflows-november-record.md
@@ -1,11 +1,13 @@
 ---
-title: Le bitcoin repasse au-dessus de 60 000 $, les sorties des ETF en novembre vers un record
-description: Le bitcoin a gagné environ 3 %, vers 60 850 $, le 26 novembre après un passage sous 58 000 $, et les ETF bitcoin américains ont prolongé des sorties record.
+title: Le bitcoin oscille autour de 60 000 $, les sorties des ETF en novembre dépassent 5 Md$
+description: Le bitcoin est repassé sous 60 000 $ le 28 novembre après un pic à 62 100 $, avec une échéance d'options de 7 Md$ et des sorties d'ETF de plus de 5 Md$ en novembre.
 date: 2026-11-26 06:50
-updated: 2026-11-27 13:05
+updated: 2026-11-28 06:30
 tags: bitcoin, etf
 assets: btc, eth
 ---
+**Mise à jour 28 novembre, 06h30 UTC :** le bitcoin est repassé sous les 60 000 $ tôt samedi et s'échangeait vers 59 700 $ à 06h07 UTC, en baisse d'environ 3 % sur 24 heures, après avoir oscillé entre un plus haut de vendredi vers 62 100 $ et un plus bas vers 58 700 $ (Investing.com). Vendredi, environ 7 milliards de dollars d'options bitcoin sont arrivés à échéance sur Deribit et près de 478 millions de dollars de positions crypto à effet de levier ont été liquidés. L'ether a reculé d'environ 4,5 %, vers 1 657 $, et le jeton WLFI, lié à Trump, a plongé d'environ 40 % après la vente d'ETH à perte par un portefeuille de réserve ([notre article]({lang}/news/why-is-wlfi-crashing-november-2026/)). Les sorties des ETF bitcoin au comptant américains en novembre ont dépassé 5 milliards de dollars. À l'inverse, selon CryptoQuant, les portefeuilles détenant 1 000 à 10 000 BTC ont acheté environ 121 000 BTC entre le 30 septembre et le 21 novembre, pendant que le prix chutait de près de 30 %.
+
 **Mise à jour du 27 novembre, 13:05 UTC :** le bitcoin a poursuivi sa hausse et s'échangeait vers 61 700 $ vendredi, environ 8 % au-dessus du plus bas de deux ans touché mercredi vers 57 300 $, à son plus haut niveau depuis lundi ; il se dirige vers sa première hausse hebdomadaire en huit semaines (Analytics Insight, Coinspeaker). Il recule toutefois encore d'environ 20 % sur novembre, contre environ 77 600 $ le 1er novembre. L'ether a gagné environ 2,3 %, vers 1 734 $. Le rebond a accompagné un mouvement de soulagement plus large sur les valeurs de l'IA et des puces, dans un marché de fêtes peu liquide ; Binance a par ailleurs indiqué jeudi avoir entièrement levé les limites de retrait imposées après le piratage de 6,3 milliards de dollars du mois dernier. L'inflation américaine persistante et une probable hausse des taux de la Fed lors de la réunion des 8 et 9 décembre restent les principaux vents contraires, et les traders surveillent la résistance vers 64 600 $.
 
 Le bitcoin est repassé au-dessus de 60 000 $ tôt ce jeudi 26 novembre, en hausse d'environ 3 % sur 24 heures, vers 60 850 $ à 05:40 UTC, au lendemain d'un bref passage sous 58 000 $. Ce rebond est intervenu alors que Wall Street effaçait l'essentiel des pertes matinales des valeurs technologiques mercredi, mais l'argent a continué de quitter les ETF bitcoin au comptant américains.
@@ -23,6 +25,7 @@ Les analystes cités par crypto.news voient une résistance autour de 61 500–6
 
 ## Sources
 
+- [Investing.com — Bitcoin price today falls below $60k as whales buy dip, ETF outflows mount](https://www.investing.com/news/cryptocurrency-news/bitcoin-price-today-falls-below-60k-as-whales-buy-dip-etf-outflows-mount-5054180)
 - [Analytics Insight — Bitcoin recovers above USD 61,400, eyes first weekly gain in eight weeks](https://www.analyticsinsight.net/news/bitcoin-recovers-above-usd-61400-eyes-first-weekly-gain-in-eight-weeks-as-crypto-markets-rebound)
 - [Coinspeaker via Yahoo Finance — Bitcoin news today: BTC rebounds 8%](https://finance.yahoo.com/markets/crypto/articles/bitcoin-news-today-btc-rebounds-104410814.html)
 - [crypto.news — Le bitcoin reprend 60 000 $, mais le creux est-il vraiment atteint ?](https://crypto.news/bitcoin-price-prediction-btc-recovery-etf-outflows/)

diff --git a/content/news/ko/bitcoin-back-above-60000-etf-outflows-november-record.md b/content/news/ko/bitcoin-back-above-60000-etf-outflows-november-record.md
@@ -1,11 +1,13 @@
 ---
-title: 비트코인 6만 달러 회복…11월 ETF 자금 유출은 사상 최대 향해
-description: 비트코인은 5만8000달러 아래로 밀린 뒤 11월 26일 약 3% 올라 6만850달러 부근까지 회복했다. 미국 현물 비트코인 ETF는 사상 최대 월간 유출을 이어갔다.
+title: 비트코인 6만 달러 부근서 등락, 11월 ETF 유출 50억 달러 돌파
+description: 비트코인이 11월 28일 6만2100달러까지 오른 뒤 다시 6만 달러 아래로 내려갔다. 70억 달러 규모 옵션이 만기됐고 11월 ETF 순유출은 50억 달러를 넘었다.
 date: 2026-11-26 06:50
-updated: 2026-11-27 13:05
+updated: 2026-11-28 06:30
 tags: bitcoin, etf
 assets: btc, eth
 ---
+**업데이트 11월 28일 06:30 UTC:** 비트코인은 토요일 새벽 다시 6만 달러 아래로 내려가 06:07 UTC 기준 약 5만9700달러로 24시간 전보다 약 3% 낮았습니다. 금요일 고점 약 6만2100달러에서 저점 약 5만8700달러까지 출렁였습니다(Investing.com). 금요일 Deribit에서 약 70억 달러 규모의 비트코인 옵션이 만기됐고, 암호화폐 시장에서 약 4억7800만 달러의 레버리지 포지션이 청산됐습니다. 이더는 약 4.5% 내린 약 1657달러, 트럼프 일가와 연관된 WLFI 토큰은 준비금 지갑의 ETH 손절 매도 뒤 약 40% 폭락했습니다([관련 기사]({lang}/news/why-is-wlfi-crashing-november-2026/)). 11월 미국 비트코인 현물 ETF 순유출은 50억 달러를 넘었습니다. 반면 CryptoQuant 데이터에 따르면 1000~1만 BTC를 보유한 지갑들은 9월 30일~11월 21일 가격이 30% 가까이 떨어지는 동안 약 12만1000 BTC를 사들였습니다.
+
 **11월 27일 13:05 UTC 업데이트:** 비트코인은 상승을 이어가 27일(금) 6만1700달러 부근에서 거래됐다. 수요일 기록한 약 5만7300달러의 2년 만의 최저치보다 약 8% 높고 월요일 이후 최고 수준으로, 8주 만의 첫 주간 상승을 앞두고 있다(Analytics Insight, Coinspeaker). 다만 11월 1일 약 7만7600달러와 비교하면 이달 들어 여전히 약 20% 낮다. 이더는 약 2.3% 올라 1734달러 부근을 기록했다. 이번 반등은 AI·반도체주의 광범위한 안도 랠리, 거래가 한산한 연휴 장세와 함께 나타났다. 바이낸스도 목요일 지난달 63억 달러 규모 해킹 이후 도입한 출금 한도를 완전히 해제했다고 밝혔다. 끈질긴 미국 인플레이션과 12월 8~9일 회의에서의 연준 금리 인상 가능성이 여전히 주요 부담이며, 트레이더들은 6만4600달러 부근 저항선을 주시하고 있다.
 
 비트코인이 11월 26일(목) 새벽 다시 6만 달러 위로 올라섰다. 05:40 UTC 기준 24시간 동안 약 3% 오른 6만850달러 부근으로, 하루 전 잠시 5만8000달러 아래로 떨어졌던 데서 반등했다. 월가가 수요일 오전 기술주 하락분을 대부분 만회하면서 반등이 나왔지만, 미국 현물 비트코인 ETF에서는 자금 유출이 계속됐다.
@@ -23,6 +25,7 @@ crypto.news가 인용한 애널리스트들은 6만1500~6만2000달러 부근을
 
 ## 출처
 
+- [Investing.com — Bitcoin price today falls below $60k as whales buy dip, ETF outflows mount](https://www.investing.com/news/cryptocurrency-news/bitcoin-price-today-falls-below-60k-as-whales-buy-dip-etf-outflows-mount-5054180)
 - [Analytics Insight — 비트코인 6만1400달러 위로 회복, 8주 만의 첫 주간 상승 노려](https://www.analyticsinsight.net/news/bitcoin-recovers-above-usd-61400-eyes-first-weekly-gain-in-eight-weeks-as-crypto-markets-rebound)
 - [Coinspeaker via Yahoo Finance — 오늘의 비트코인 뉴스: BTC 8% 반등](https://finance.yahoo.com/markets/crypto/articles/bitcoin-news-today-btc-rebounds-104410814.html)
 - [crypto.news — 비트코인 가격 6만 달러 회복, 하지만 정말 바닥일까?](https://crypto.news/bitcoin-price-prediction-btc-recovery-etf-outflows/)

diff --git a/content/news/fil/bitcoin-back-above-60000-etf-outflows-november-record.md b/content/news/fil/bitcoin-back-above-60000-etf-outflows-november-record.md
@@ -1,11 +1,13 @@
 ---
-title: Bitcoin, bumalik sa itaas ng $60,000 habang patungong rekord ang ETF outflows ng Nobyembre
-description: Umakyat ang Bitcoin nang mga 3% sa halos $60,850 noong Nobyembre 26 matapos bumaba sa ilalim ng $58,000, habang tuloy ang rekord na outflows ng US bitcoin ETF.
+title: Bitcoin, pabago-bago sa paligid ng $60,000; ETF outflow ngayong Nobyembre, lampas $5 bilyon
+description: Bumaba ulit ang bitcoin sa ilalim ng $60,000 noong Nob. 28 matapos umabot sa $62,100; nag-expire ang $7 bilyong options at lumampas sa $5 bilyon ang ETF outflow.
 date: 2026-11-26 06:50
-updated: 2026-11-27 13:05
+updated: 2026-11-28 06:30
 tags: bitcoin, etf
 assets: btc, eth
 ---
+**Update Nobyembre 28, 06:30 UTC:** Bumaba ulit ang bitcoin sa ilalim ng $60,000 noong madaling-araw ng Sabado at nasa mga $59,700 ito noong 06:07 UTC, bagsak nang mga 3% sa loob ng 24 oras, matapos gumalaw mula sa high noong Biyernes na mga $62,100 pababa sa low na mga $58,700 (Investing.com). Noong Biyernes, mga $7 bilyong bitcoin options ang nag-expire sa Deribit at mga $478 milyong leveraged na crypto position ang na-liquidate. Bumaba ang ether nang mga 4.5% sa malapit sa $1,657, at ang WLFI token na konektado kay Trump ay bumagsak nang mga 40% matapos magbenta nang lugi ng ETH ang isang reserve wallet ([aming balita]({lang}/news/why-is-wlfi-crashing-november-2026/)). Lumampas sa $5 bilyon ang outflow mula sa mga US spot bitcoin ETF ngayong Nobyembre. Sa kabilang banda, ayon sa datos ng CryptoQuant, ang mga wallet na may 1,000–10,000 BTC ay bumili ng mga 121,000 BTC mula Setyembre 30 hanggang Nobyembre 21 habang bumababa ang presyo nang halos 30%.
+
 **Update Nobyembre 27, 13:05 UTC:** Patuloy na tumaas ang Bitcoin at nag-trade sa halos $61,700 nitong Biyernes, mga 8% na mas mataas kaysa sa dalawang-taong low noong Miyerkules na malapit sa $57,300 at ang pinakamataas nito mula Lunes; papunta ito sa unang lingguhang pag-angat sa loob ng walong linggo (Analytics Insight, Coinspeaker). Bagsak pa rin ito nang mga 20% ngayong Nobyembre, mula sa humigit-kumulang $77,600 noong Nobyembre 1. Nadagdagan ang ether nang mga 2.3% sa halos $1,734. Sumabay ang pag-angat sa mas malawak na relief rally sa mga AI at chip stock at sa manipis na holiday trading; sinabi rin ng Binance noong Huwebes na tuluyan na nitong inalis ang mga limitasyon sa withdrawal na ipinatupad matapos ang $6.3 bilyong hack noong nakaraang buwan. Ang tuloy-tuloy na inflation sa US at ang malamang na pagtaas ng rate ng Fed sa pulong sa Disyembre 8–9 ang nananatiling pangunahing hadlang, at binabantayan ng mga trader ang resistance malapit sa $64,600.
 
 Bumalik ang Bitcoin sa itaas ng $60,000 nitong umaga ng Huwebes, Nobyembre 26, at tumaas nang mga 3% sa loob ng 24 oras sa halos $60,850 pagsapit ng 05:40 UTC, isang araw matapos itong panandaliang bumagsak sa ilalim ng $58,000. Dumating ang pag-angat habang nabawi ng Wall Street ang karamihan ng pagbaba ng tech stocks noong umaga ng Miyerkoles, pero patuloy na lumalabas ang pera sa mga US spot bitcoin ETF.
@@ -23,6 +25,7 @@ Nakikita ng mga analyst na binanggit ng crypto.news ang resistance sa paligid ng
 
 ## Mga pinagmulan
 
+- [Investing.com — Bitcoin price today falls below $60k as whales buy dip, ETF outflows mount](https://www.investing.com/news/cryptocurrency-news/bitcoin-price-today-falls-below-60k-as-whales-buy-dip-etf-outflows-mount-5054180)
 - [Analytics Insight — Bitcoin, bumawi sa itaas ng USD 61,400 at papunta sa unang lingguhang pag-angat sa walong linggo](https://www.analyticsinsight.net/news/bitcoin-recovers-above-usd-61400-eyes-first-weekly-gain-in-eight-weeks-as-crypto-markets-rebound)
 - [Coinspeaker via Yahoo Finance — Bitcoin news ngayon: BTC, bumawi nang 8%](https://finance.yahoo.com/markets/crypto/articles/bitcoin-news-today-btc-rebounds-104410814.html)
 - [crypto.news — Nabawi ng presyo ng bitcoin ang $60K, pero nasa ilalim na nga ba?](https://crypto.news/bitcoin-price-prediction-btc-recovery-etf-outflows/)

diff --git a/content/news/es/bitcoin-back-above-60000-etf-outflows-november-record.md b/content/news/es/bitcoin-back-above-60000-etf-outflows-november-record.md
@@ -1,11 +1,13 @@
 ---
-title: Bitcoin vuelve a superar los 60.000 dólares y las salidas de los ETF van hacia un récord
-description: Bitcoin subió cerca de un 3%, a unos 60.850 dólares, el 26 de noviembre tras caer bajo los 58.000, mientras los ETF al contado de EE. UU. sumaban salidas.
+title: Bitcoin oscila en torno a $60.000 y las salidas de ETF en noviembre superan $5.000 millones
+description: Bitcoin volvió a caer bajo $60.000 el 28 de noviembre tras tocar $62.100, con un vencimiento de opciones de $7.000 millones y salidas de ETF de más de $5.000 millones.
 date: 2026-11-26 06:50
-updated: 2026-11-27 13:05
+updated: 2026-11-28 06:30
 tags: bitcoin, etf
 assets: btc, eth
 ---
+**Actualización 28 de noviembre, 06:30 UTC:** bitcoin volvió a bajar de $60.000 en la madrugada del sábado y cotizaba cerca de $59.700 a las 06:07 UTC, un 3% menos en 24 horas, tras oscilar entre un máximo del viernes cerca de $62.100 y un mínimo cerca de $58.700 (Investing.com). El viernes vencieron en Deribit opciones de bitcoin por unos $7.000 millones y se liquidaron unos $478 millones en posiciones cripto apalancadas. Ether cayó un 4,5%, hasta cerca de $1.657, y el token WLFI, ligado a Trump, se hundió un 40% tras la venta de ETH de una cartera de reserva ([nuestra nota]({lang}/news/why-is-wlfi-crashing-november-2026/)). Las salidas de los ETF de bitcoin al contado de EE. UU. en noviembre superaron los $5.000 millones. En cambio, según CryptoQuant, las carteras con 1.000–10.000 BTC compraron unos 121.000 BTC entre el 30 de septiembre y el 21 de noviembre, mientras el precio caía casi un 30%.
+
 **Actualización 27 de noviembre, 13:05 UTC:** bitcoin siguió subiendo y cotizaba cerca de 61.700 dólares el viernes, alrededor de un 8% por encima del mínimo de dos años del miércoles, cerca de 57.300, y en su nivel más alto desde el lunes; va camino de su primera subida semanal en ocho semanas (Analytics Insight, Coinspeaker). Aun así, cae cerca de un 20% en noviembre, desde unos 77.600 dólares el 1 de noviembre. Ether ganó cerca de un 2,3%, hasta unos 1.734 dólares. El rebote coincidió con una subida de alivio más amplia en los valores de IA y chips y con poco volumen por los festivos; además, Binance dijo el jueves que había levantado por completo los límites de retirada impuestos tras el hackeo de 6.300 millones de dólares del mes pasado. La inflación persistente en EE. UU. y una probable subida de tipos de la Fed en la reunión del 8 y 9 de diciembre siguen siendo los principales lastres, y los traders vigilan la resistencia cerca de 64.600 dólares.
 
 Bitcoin volvió a superar los 60.000 dólares a primera hora del jueves 26 de noviembre: subió cerca de un 3% en 24 horas, hasta unos 60.850 dólares a las 05:40 UTC, un día después de perder brevemente los 58.000. El rebote llegó mientras Wall Street recuperaba la mayor parte de las pérdidas iniciales de las tecnológicas del miércoles, pero el dinero siguió saliendo de los ETF de bitcoin al contado de EE. UU.
@@ -23,6 +25,7 @@ Los analistas citados por crypto.news ven una resistencia en torno a 61.500–62
 
 ## Fuentes
 
+- [Investing.com — Bitcoin price today falls below $60k as whales buy dip, ETF outflows mount](https://www.investing.com/news/cryptocurrency-news/bitcoin-price-today-falls-below-60k-as-whales-buy-dip-etf-outflows-mount-5054180)
 - [Analytics Insight — Bitcoin recovers above USD 61,400, eyes first weekly gain in eight weeks](https://www.analyticsinsight.net/news/bitcoin-recovers-above-usd-61400-eyes-first-weekly-gain-in-eight-weeks-as-crypto-markets-rebound)
 - [Coinspeaker via Yahoo Finance — Bitcoin news today: BTC rebounds 8%](https://finance.yahoo.com/markets/crypto/articles/bitcoin-news-today-btc-rebounds-104410814.html)
 - [crypto.news — El precio de bitcoin recupera los 60.000 dólares, pero ¿de verdad ha tocado fondo?](https://crypto.news/bitcoin-price-prediction-btc-recovery-etf-outflows/)
